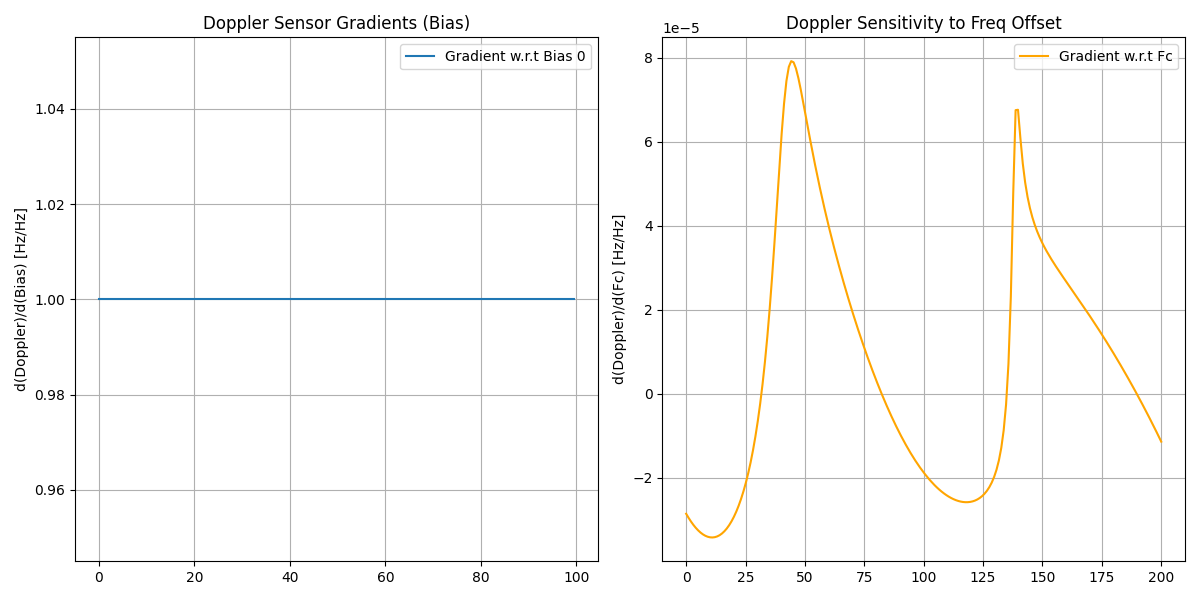
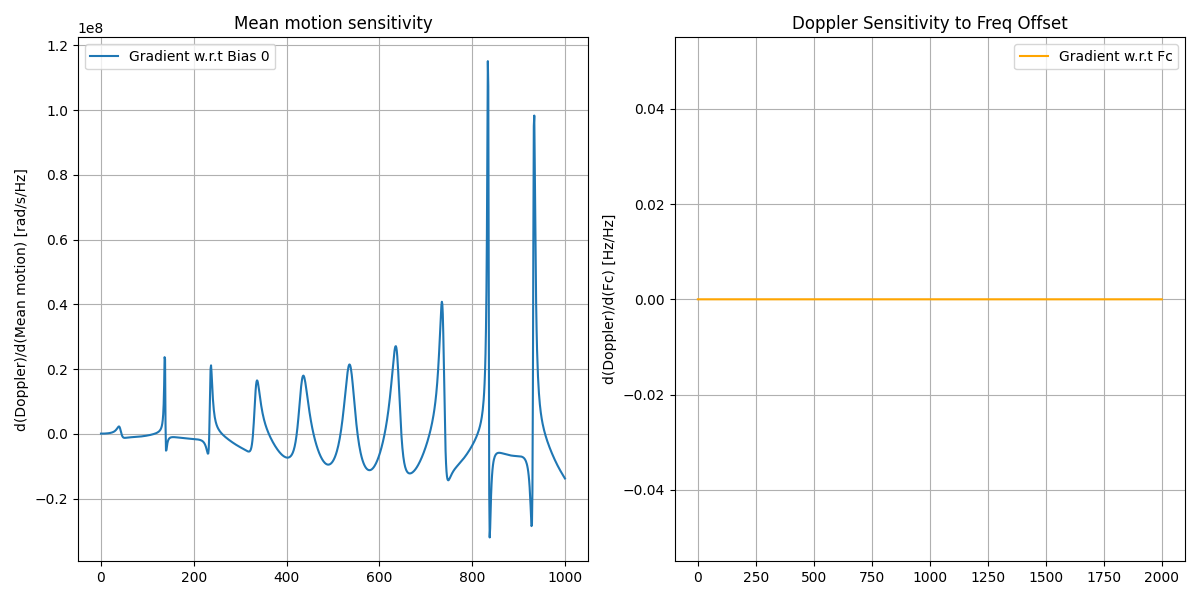
Improved simulation

diff --git a/src/systemObject.py b/src/systemObject.py
@@ -21,7 +21,7 @@ class BaseOrbitSystem(nn.Module):
         # 1. Unpack Global State
         sgp4_inputs, sensor_param_dict = self.state_def.unpack(state_vector)
         
-        all_residuals = []
+        all_preds = []
         
         # 2. Iterate Sensor Data Packets
         # Sorting keys ensures deterministic order for Jacobian
@@ -45,84 +45,23 @@ class BaseOrbitSystem(nn.Module):
             contact_idx = obs_packet['indices']
             
             preds = sensor_module(geo_data, sensor_params, contact_idx)
-            all_residuals.append(preds)
+            all_preds.append(preds)
             
-        return torch.cat(all_residuals)
+        return torch.cat(all_preds)
+
+    def residuals(self, state_vector, observations, measurements):
+        preds = self.forward(state_vector, observations)
+        
+        if isinstance(measurements, dict):
+            meas_list = []
+            for name in sorted(observations.keys()):
+                if name in self.sensors:
+                    meas_list.append(measurements[name])
+            measurements = torch.cat(meas_list)
+            
+        return preds - measurements
 
     def get_jacobian(self, state_vector, observations):
         def model_func(x):
             return self.forward(x, observations)
         return jacfwd(model_func)(state_vector)
-
-# import torch
-# import torch.nn as nn
-# from torch.func import jacfwd
-# from src.physicsLayers import SGP4Layer, GeometryLayer
-# from src.stateDefinitionLayer import StateDefinition, DynamicStateDefinition
-# from src.sensorLayers import ComplexTelescope
-
-# class BaseOrbitSystem(nn.Module):
-#     def __init__(self, init_tle, fit_keys, sensors_dict):
-#         super().__init__()
-#         # Auto-wire the state vector based on the sensors provided
-#         self.state_def = DynamicStateDefinition(fit_keys, sensors_dict, init_tle)
-#         self.propagator = SGP4Layer(init_tle)
-#         self.sensors = nn.ModuleDict(sensors_dict)
-        
-#         # We assume station data is embedded in the sensors or passed differently
-#         # (removed SharedGeometry for clarity, can be re-added if station is shared)
-
-#     def forward(self, state_vector, observations):
-#         """
-#         observations: Dict of Dicts
-#         {
-#            'telescope': {
-#                't': tensor([0.1, 0.2...]), 
-#                'indices': tensor([0, 0...]),
-#                'meta': ... 
-#            },
-#            'doppler': {
-#                't': tensor([0.1, 0.15...]), ...
-#            }
-#         }
-#         """
-#         # 1. Decode State
-#         sgp4_inputs, sensor_param_dict = self.state_def.unpack(state_vector)
-        
-#         all_residuals = []
-        
-#         # 2. Process each Sensor Independently
-#         for name, obs_packet in observations.items():
-#             if name not in self.sensors:
-#                 continue
-            
-#             sensor = self.sensors[name]
-            
-#             # A. Dynamic Propagation (Syncs to THIS sensor's time)
-#             t_sensor = obs_packet['t']
-#             pos, vel = self.propagator(sgp4_inputs, t_sensor)
-            
-#             # B. Geometry Calculation
-#             # (Ideally, pass pos/vel to a geometry helper, or let sensor handle it)
-#             # For generality, let's create a geometry packet:
-#             geo_data = {'rel_pos': pos - sensor.station_pos, 'rel_vel': vel} 
-            
-#             # C. Sensor Forward Pass
-#             # We pass ONLY the parameters belonging to this sensor
-#             my_params = sensor_param_dict[name]
-#             my_meta = obs_packet['indices'] # Or generic metadata
-            
-#             preds = sensor(geo_data, my_params, my_meta)
-            
-#             all_residuals.append(preds)
-            
-#         return torch.cat(all_residuals)
-
-#     def get_jacobian(self, state_vector, observations):
-#         def model_func(x):
-#             return self.forward(x, observations)
-        
-#         # Returns (Total_Measurements, Total_State_Dim)
-#         # Block structure: [ [J_dop_orbit, I_dop_bias, 0], 
-#         #                    [J_rng_orbit, 0, I_rng_bias] ]
-#         return jacfwd(model_func)(state_vector)

diff --git a/src/sensorLayers.py b/src/sensorLayers.py
@@ -103,82 +103,3 @@ class RadarSensor(BaseSensor):
             return range_km + bias_correction
             
         return range_km
-
-# import torch
-# import torch.nn as nn
-# from abc import ABC, abstractmethod
-
-# class BaseSensor(nn.Module, ABC):
-#     """
-#     Abstract contract for a sensor.
-#     """
-#     def __init__(self):
-#         super().__init__()
-
-#     @property
-#     @abstractmethod
-#     def num_params(self) -> int:
-#         """
-#         The number of learnable parameters (biases, coefficients) 
-#         this sensor needs in the global state vector.
-#         """
-#         pass
-
-#     @abstractmethod
-#     def forward(self, geometry_data, sensor_params, metadata):
-#         """
-#         Apply instrument physics and biases.
-        
-#         Args:
-#             geometry_data: Dict containing 'rel_pos', 'range_rate', etc.
-#             sensor_params: Tensor of shape (num_params,) - slice from global state.
-#             metadata: Dict or Tensor containing local indices (e.g., pass IDs, integration times).
-#         """
-#         pass
-
-# class ComplexTelescope(BaseSensor):
-#     def __init__(self, num_passes, station_pos):
-#         super().__init__()
-#         self.num_passes = num_passes
-#         self.register_buffer('station_pos', station_pos)
-        
-#         # We need: 3 Mount Angles (Euler) + 1 Time Bias per pass
-#         self._n_params = 3 + num_passes 
-
-#     @property
-#     def num_params(self):
-#         return self._n_params
-
-#     def forward(self, geometry_data, sensor_params, contact_indices):
-#         # 1. Unpack My Parameters (The "Local Map")
-#         # I know that params[0:3] are Mount Errors
-#         mount_euler_angles = sensor_params[:3]
-        
-#         # I know that params[3:] are Time Biases
-#         time_biases = sensor_params[3:]
-        
-#         # 2. Physics: Apply Time Bias *Before* Geometry?
-#         # (For strict correctness, time bias affects the SGP4 query time. 
-#         #  If the bias is small, we can approximate it as a rotation or RA/Dec shift.)
-#         # Let's assume we apply it as a RA/Dec shift for this example.
-#         current_pass_bias = time_biases[contact_indices]
-        
-#         # 3. Physics: Geometry -> Angles
-#         rel_pos = geometry_data['rel_pos'] # (N, 3) TEME
-        
-#         # ... (Coordinate transform TEME -> Mount Frame) ...
-#         # Here we use the learnable mount angles to rotate the vector
-#         # This creates the "Non-linear bias" you mentioned.
-#         corrected_pos = self.apply_mount_rotation(rel_pos, mount_euler_angles)
-        
-#         # 4. Compute Observables
-#         x, y, z = corrected_pos.unbind(1)
-#         az = torch.atan2(y, x) + current_pass_bias # Apply pass bias
-#         el = torch.asin(z / corrected_pos.norm(dim=1))
-        
-#         return torch.stack([az, el], dim=1)
-
-#     def apply_mount_rotation(self, vec, euler):
-#         # Placeholder for 3D rotation logic using the 3 parameters
-#         # This makes the bias non-linear w.r.t the state.
-#         return vec # + some_rotation(euler)

diff --git a/simulation.py b/simulation.py
@@ -32,7 +32,7 @@ TLE_list = ["ISS (ZARYA)",
 init_tle = TLE(TLE_list)
 
 # Time: 200 minutes
-t_all = torch.linspace(0, 200, 200)
+t_all = torch.linspace(0, 2000, 2000)
 
 # Station Ephemeris
 st_pos, st_vel = get_station_vectors(t_all)
@@ -47,8 +47,8 @@ sensors = {'doppler': doppler_sensor, 'radar': radar_sensor}
 
 # --- 4. Define Observation Packets ---
 # Split data: 0-100 min (Pass 0), 100-200 min (Pass 1)
-indices = torch.zeros(200, dtype=torch.long)
-indices[100:] = 1
+indices = torch.zeros(2000, dtype=torch.long)
+indices[1000:] = 1
 
 obs_data = {
     'doppler': {'t': t_all, 'indices': indices},
@@ -79,11 +79,11 @@ plt.figure(figsize=(12, 6))
 
 # A. Plot Doppler Gradients for Pass 0 Bias
 # Rows 0:100 are Pass 0 Doppler. Param Index 2 is dop_bias_0.
-grad_dop_bias0 = H[0:100, 2]
+grad_dop_bias0 = H[0:1000, 0]
 plt.subplot(1, 2, 1)
-plt.plot(t_all[:100], grad_dop_bias0.detach().numpy(), label='Gradient w.r.t Bias 0')
-plt.title("Doppler Sensor Gradients (Bias)")
-plt.ylabel("d(Doppler)/d(Bias) [Hz/Hz]")
+plt.plot(t_all[:1000], grad_dop_bias0.detach().numpy(), label='Gradient w.r.t Bias 0')
+plt.title("Mean motion sensitivity")
+plt.ylabel("d(Doppler)/d(Mean motion) [rad/s/Hz]")
 plt.legend()
 plt.grid(True)
 
@@ -91,7 +91,7 @@ plt.grid(True)
 # Param Index 4 is Freq Offset
 grad_dop_fc = H[:, 4]
 plt.subplot(1, 2, 2)
-plt.plot(t_all, grad_dop_fc.detach().numpy()[:200], color='orange', label='Gradient w.r.t Fc')
+plt.plot(t_all, grad_dop_fc.detach().numpy()[2000:], color='orange', label='Gradient w.r.t Fc')
 plt.title("Doppler Sensitivity to Freq Offset")
 plt.ylabel("d(Doppler)/d(Fc) [Hz/Hz]")
 plt.legend()
@@ -103,3 +103,36 @@ plt.close()
 # Verification
 print(f"Mean Gradient for Doppler Bias 0 (should be 1.0): {grad_dop_bias0.mean().item():.4f}")
 print(f"Mean Gradient for Doppler Freq Offset: {grad_dop_fc.mean().item():.4f}")
+
+# --- 8. Plotting Expected Values ---
+print("Generating expected values...")
+with torch.no_grad():
+    preds = system(x0, obs_data)
+
+# Split predictions based on observation counts (sorted keys: doppler, radar)
+n_dop = len(obs_data['doppler']['t'])
+dop_preds = preds[:n_dop].numpy()
+rad_preds = preds[n_dop:].numpy()
+
+plt.figure(figsize=(12, 6))
+
+plt.subplot(1, 2, 1)
+plt.plot(t_all.numpy(), dop_preds, label='Expected Doppler')
+plt.title("Expected Doppler Signal")
+plt.xlabel("Time (min)")
+plt.ylabel("Doppler Shift (Hz)")
+plt.grid(True)
+plt.legend()
+
+plt.subplot(1, 2, 2)
+plt.plot(t_all.numpy(), rad_preds, color='orange', label='Expected Range')
+plt.title("Expected Radar Range")
+plt.xlabel("Time (min)")
+plt.ylabel("Range (km)")
+plt.grid(True)
+plt.legend()
+
+plt.tight_layout()
+plt.savefig("expected_values.png")
+plt.close()
+print("Saved expected_values.png")

diff --git a/src/stateDefinitionLayer.py b/src/stateDefinitionLayer.py
@@ -82,73 +82,3 @@ class DynamicStateDefinition:
             sensor_params[name] = state_vector[sl]
             
         return sgp4_tensor, sensor_params
-
-# import torch
-# import numpy as np
-
-# class DynamicStateDefinition:
-#     def __init__(self, orbital_keys, sensors_dict, init_tle):
-#         # 1. Orbit Part
-#         self.orbital_keys = orbital_keys
-#         self.orbit_dim = len(orbital_keys)
-        
-#         # 2. Sensor Part (Auto-Discovery)
-#         self.sensor_slices = {}
-#         current_idx = self.orbit_dim
-        
-#         for name, sensor in sensors_dict.items():
-#             n_p = sensor.num_params
-#             # Store the slice: e.g., telescope -> indices 7 to 15
-#             self.sensor_slices[name] = slice(current_idx, current_idx + n_p)
-#             current_idx += n_p
-            
-#         self.total_dim = current_idx
-
-#         self.defaults = {
-#             'n': init_tle._no_kozai, # * self.revday_to_radsec, 
-#             'e': init_tle._ecco,
-#             'i': init_tle._inclo,     
-#             'raan': init_tle._nodeo,  
-#             'argp': init_tle._argpo,  
-#             'ma': init_tle._mo,       
-#             'bstar': init_tle._bstar
-#         }
-
-#     def unpack(self, state_vector):
-
-#         current_vals = self.defaults.copy() 
-
-#         # A. Orbit
-#         for key in self.orbital_keys:
-#             current_vals[key] = state_vector[self.idx_map[key]]
-            
-#         sgp4_tensor = torch.stack([
-#             torch.as_tensor(current_vals['n']),
-#             torch.as_tensor(current_vals['e']),
-#             torch.as_tensor(current_vals['i']),
-#             torch.as_tensor(current_vals['raan']),
-#             torch.as_tensor(current_vals['argp']),
-#             torch.as_tensor(current_vals['ma']),
-#             torch.as_tensor(current_vals['bstar'])
-#         ])
-
-#         # B. Sensors (Dictionary of slices)
-#         sensor_params = {}
-#         for name, sl in self.sensor_slices.items():
-#             # Extract the specific block for this sensor
-#             sensor_params[name] = state_vector[sl]
-            
-#         return sgp4_tensor, sensor_params
-    
-#     def get_initial_state(self):
-#         """
-#         Returns x0 populated with the initial TLE values for the active keys,
-#         and zeros for the biases.
-#         """
-#         # 1. Start with zeros (correct for biases)
-#         x = torch.zeros(self.total_dim, dtype=torch.float64)
-        
-#         # 2. Overwrite the slots for the active orbital elements
-        
-            
-#         return x
